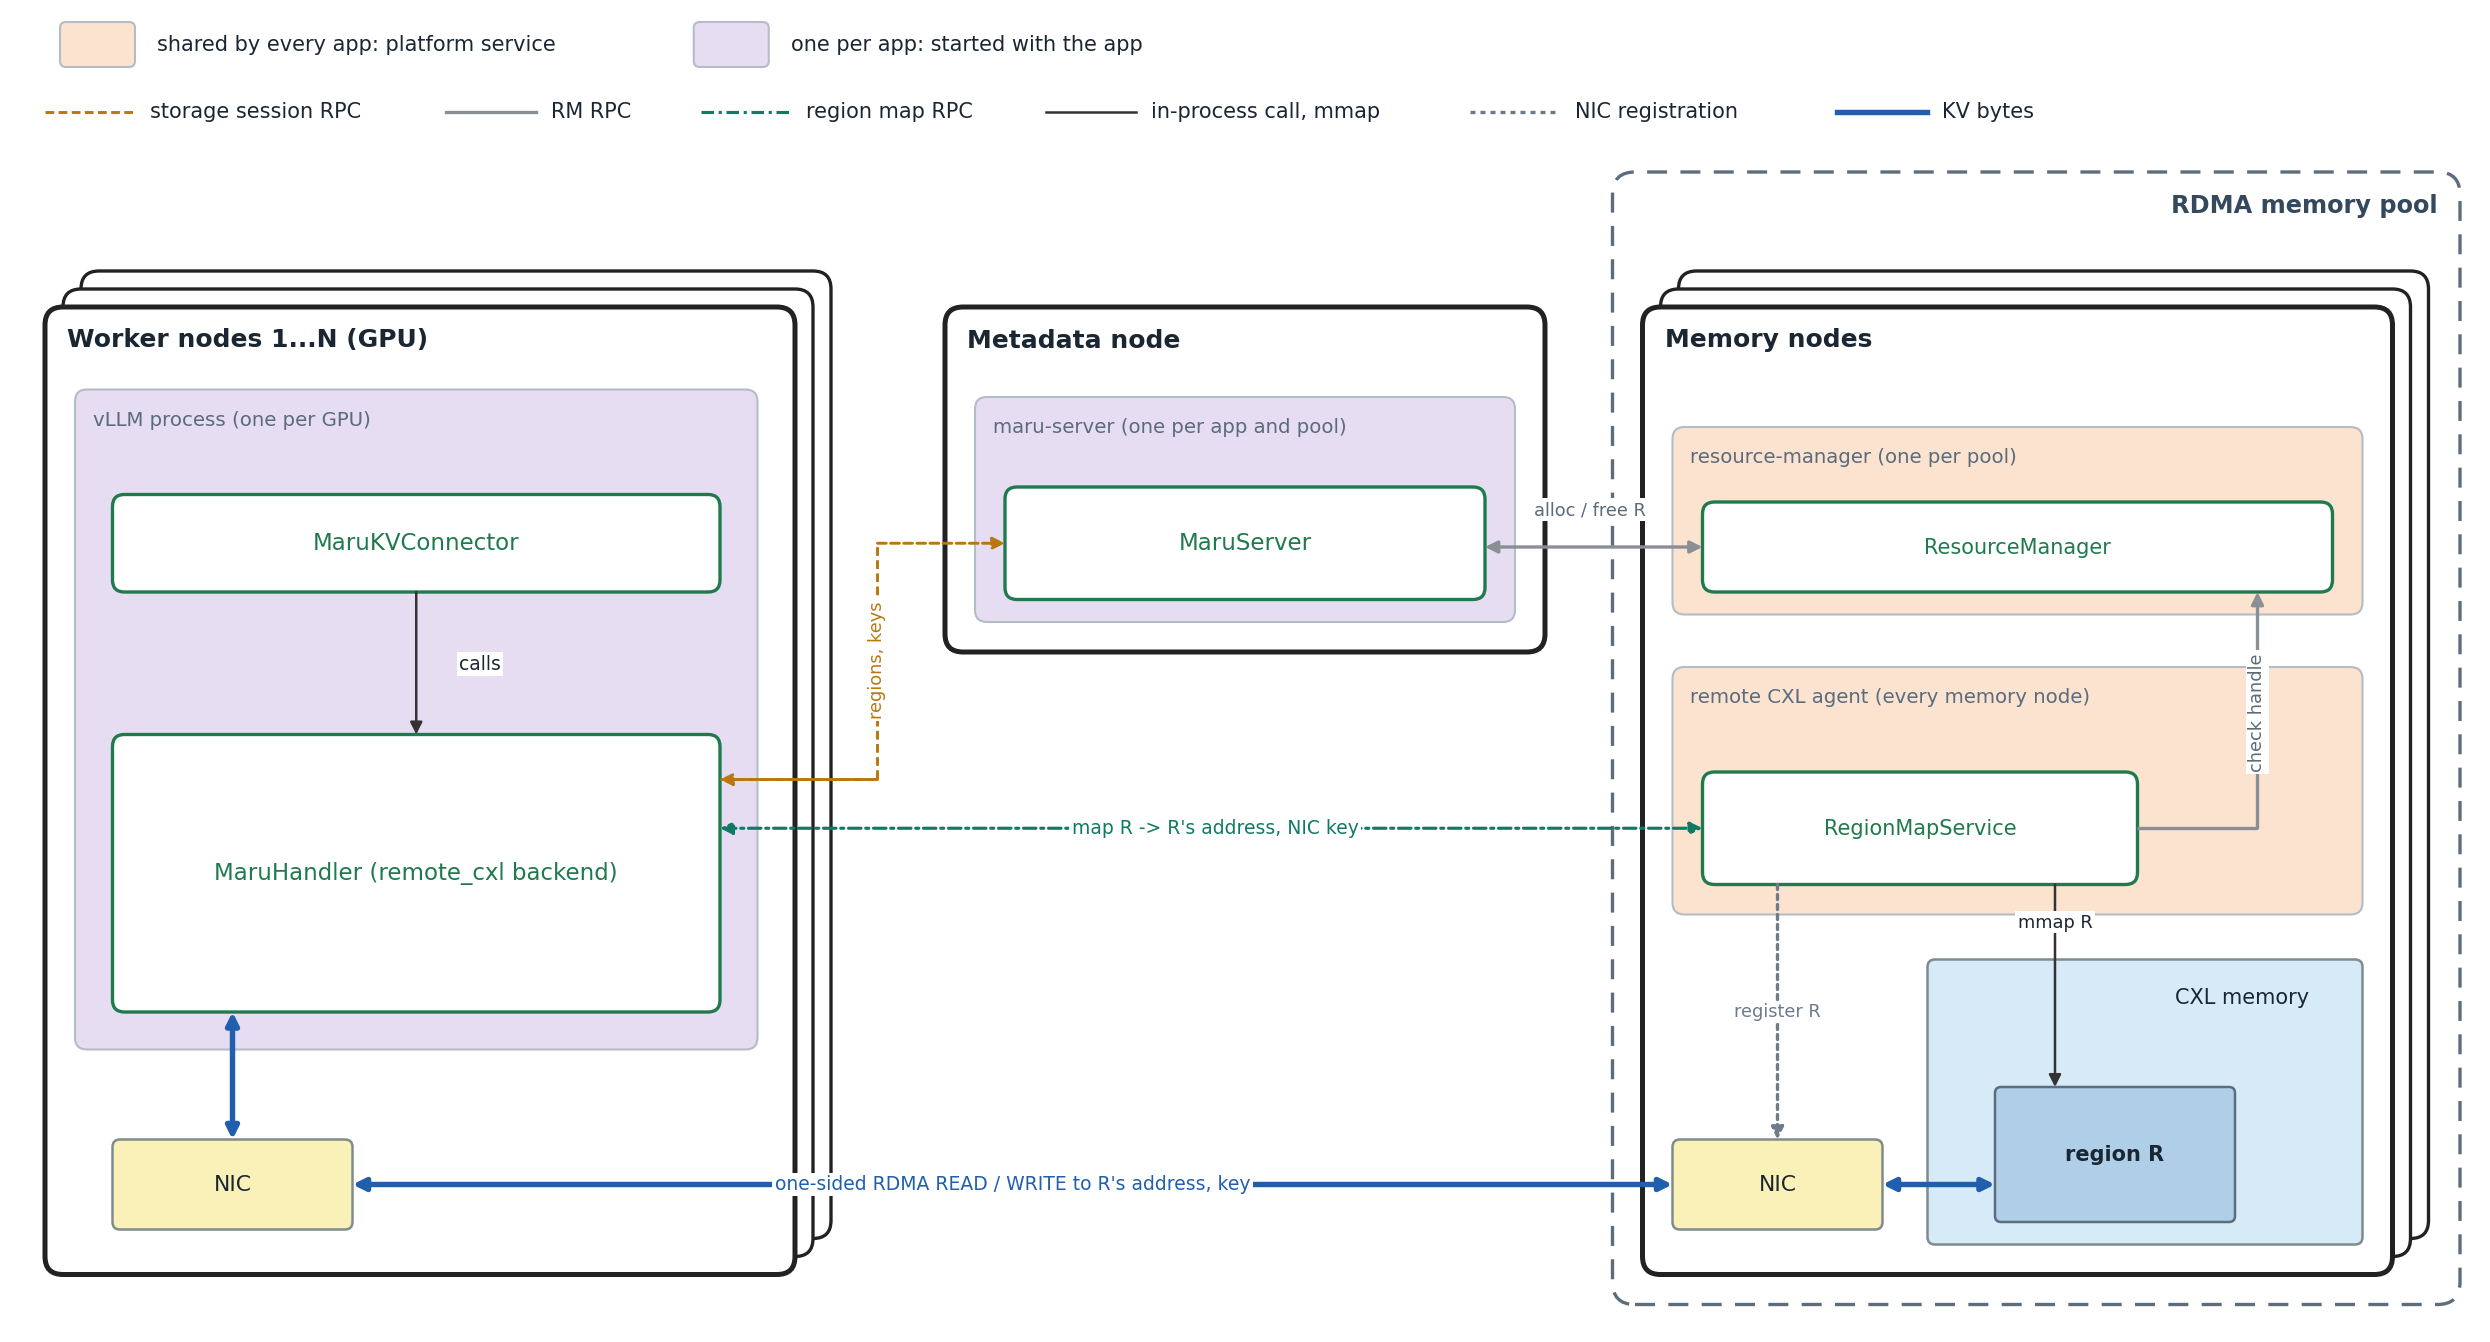
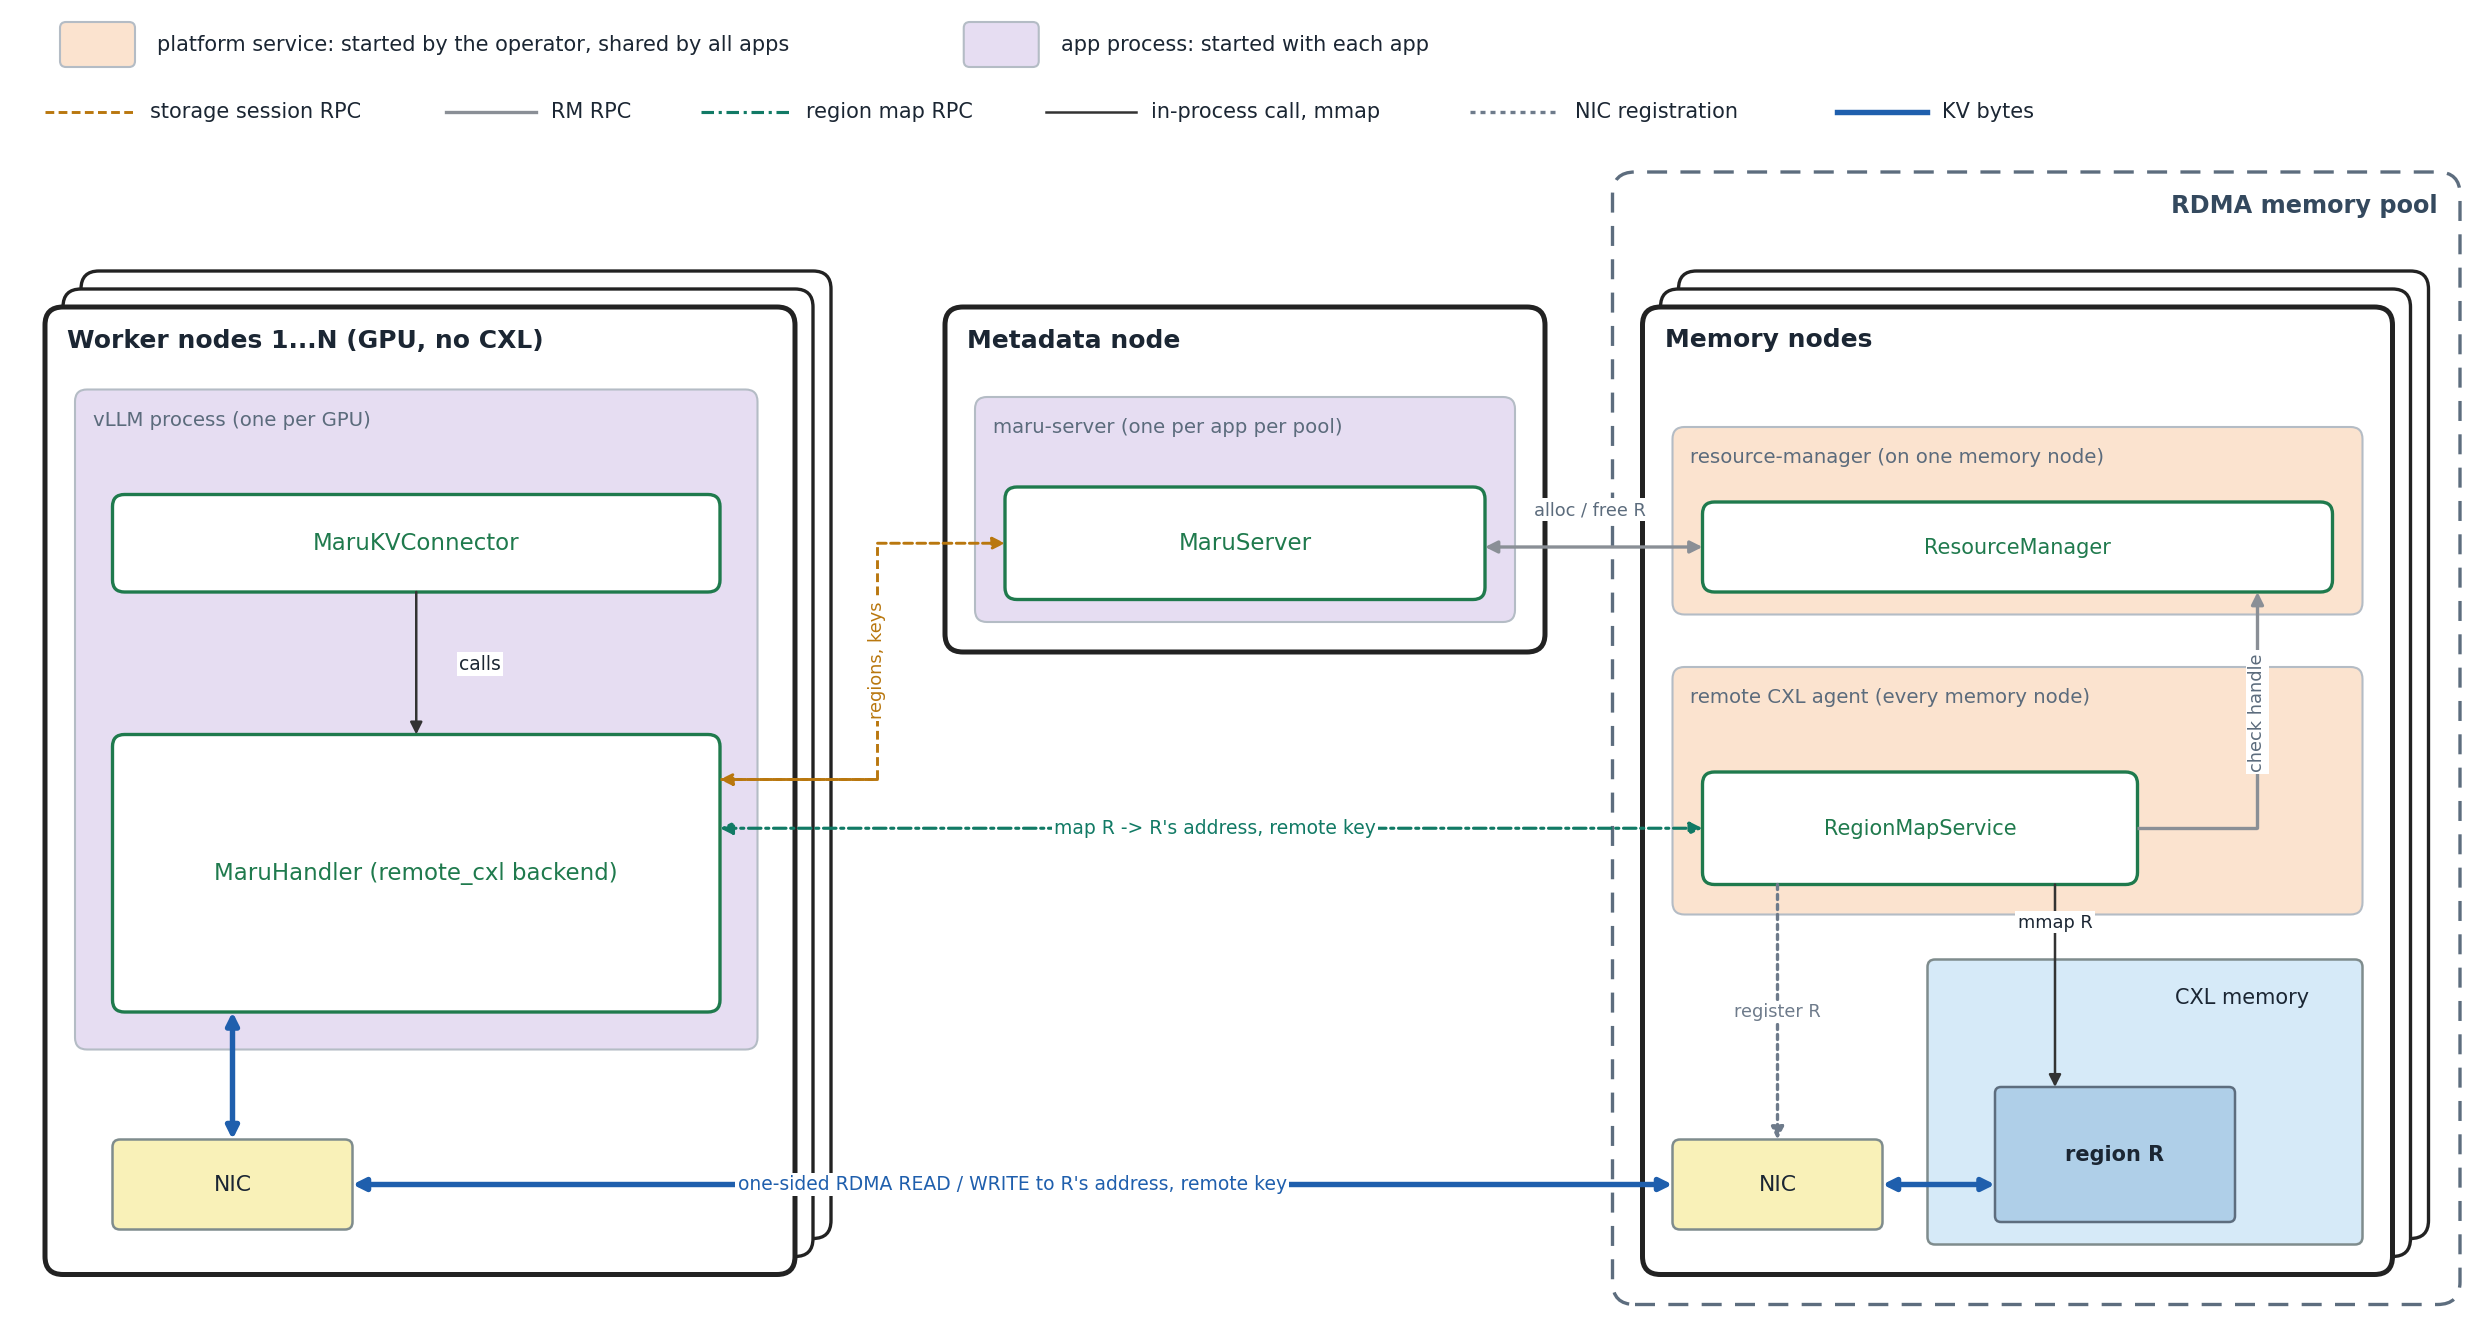
docs(remote_cxl): clarify the top-level figure after review
Name the background colours by who starts a process, mark the worker
nodes as having no CXL, show the resource manager on one memory node,
and call the key a remote key.

diff --git a/docs/source/design_doc/architecture_overview.md b/docs/source/design_doc/architecture_overview.md
@@ -179,13 +179,13 @@ moves: mapping a region. One-sided RDMA reaches only memory that a process on
 the target node has mapped and registered with that node's NIC, and a node
 without CXL cannot map the region itself. A **remote CXL agent** on every memory
 node is that process: it maps the regions Handlers ask for and registers them
-with the node's NIC, as DaxMapper maps them inside a Handler on a CXL-attached
-node, and returns each region's address and NIC key. The Handler then reads and
+with the node's NIC (the job DaxMapper does inside a Handler on a CXL-attached
+node), and returns each region's address and remote key. The Handler then reads and
 writes a region with one-sided RDMA between its staging buffer and the region,
 and the bytes go from NIC to NIC without passing through a process on the
 memory node.
 
-![The nodes of a remote_cxl deployment. GPU worker nodes, outside the pool, run vLLM with MaruKVConnector and MaruHandler (remote_cxl backend) and have a NIC. The metadata node runs maru-server, one per app and pool, which the Handler reaches with the storage session RPC for regions and keys. The memory nodes form the RDMA memory pool: one of them runs the resource-manager, which MaruServer asks to allocate and free regions, and every one runs a remote CXL agent. The agent's RegionMapService answers the Handler's map request with region R's address and NIC key, checks R's handle with the resource manager, maps R from the CXL memory and registers it with the memory node's NIC. KV bytes go from the Handler through the worker's NIC to the memory node's NIC with one-sided RDMA READ and WRITE, and from there into region R.](../image/remote_cxl_overview.png)
+![The nodes of a remote_cxl deployment. GPU worker nodes without CXL, outside the pool, run vLLM with MaruKVConnector and MaruHandler (remote_cxl backend) and have a NIC. The metadata node runs maru-server, one per app per pool, which the Handler reaches with the storage session RPC for regions and keys. The memory nodes form the RDMA memory pool: one of them runs the resource-manager, which MaruServer asks to allocate and free regions, and every one runs a remote CXL agent. The agent's RegionMapService answers the Handler's map request with region R's address and remote key, checks R's handle with the resource manager, maps R from the CXL memory and registers it with the memory node's NIC. KV bytes go from the Handler through the worker's NIC to the memory node's NIC with one-sided RDMA READ and WRITE, and from there into region R.](../image/remote_cxl_overview.png)
 
 ![The cxl backend and the remote_cxl backend take the same steps: the Resource Manager gives region R to MaruServer, MaruServer gives R's handle to the Handler, R is mapped after a GET_ACCESS check, and KV moves. With the cxl backend the Handler maps R itself; with the remote_cxl backend the remote CXL agent on the memory node maps R and registers it with the NIC, and the Handler moves KV by RDMA](../image/remote_cxl_concept.png)
 
@@ -204,7 +204,7 @@ How the properties above carry over:
 
   ![Who can map a region. (a) cxl backend: a process on a host attached to the CXL device whose user may open the DAX device file maps R; a process of another user is refused, and a host off the device has no device. (b) remote_cxl backend: a process on a host of the RDMA network that can read the key file proves the key to the remote CXL agent and maps R, then reads and writes it by RDMA; a process without the key is refused, and a host off the RDMA network cannot reach the remote CXL agent](../image/remote_cxl_who_maps.png)
 - **Region lifetime.** A region goes back to the Resource Manager only after
-  its remote CXL agent deregistered it from the NIC, so an RDMA WRITE of the old
+  its remote CXL agent has deregistered it from the NIC, so an RDMA WRITE of the old
   owner that is still in flight fails at the NIC instead of landing in the
   next owner's KV. When a worker leaves, MaruServer keeps its regions that hold
   keys, as it keeps a cxl Handler's regions while keys refer to them, and gives
